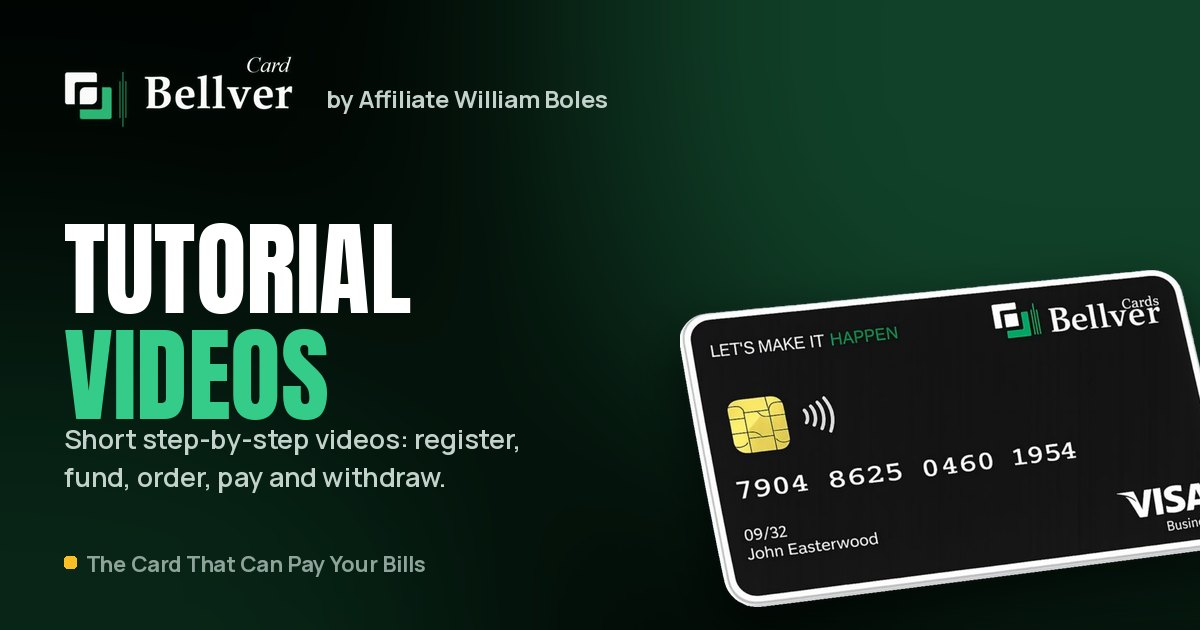
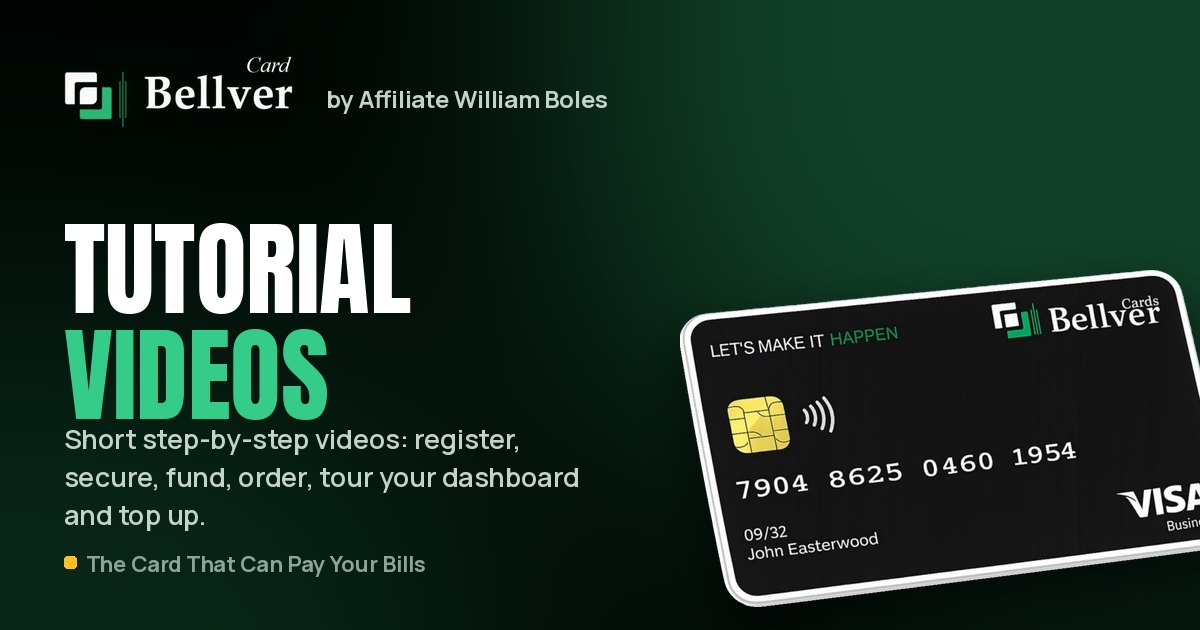
Give every Bellver page its own social preview image and refresh share caches
New previews for Explainer Videos, Become a Partner, Payback Calculator and Rewards Calculator; Tutorial Videos text updated; og:image now carries a version tag, secure_url and type on every page (MTG and team).

Claude-Session: https://claude.ai/code/session_01EfSLD4XKBMX3jpFRqeX61H

Changed region(s): [[0.0617, 0.7238, 0.4933, 0.8444]]

diff --git a/bellvercards/william/tutorials/index.html b/bellvercards/william/tutorials/index.html
@@ -16,13 +16,15 @@
 <meta property="og:title" content="Bellver Card Tutorial Videos: Register, Secure, Fund, Order, Your Dashboard and Top Up | William Boles">
 <meta property="og:description" content="Step-by-step Bellver Card tutorials: register, secure your account with 2FA, back up your Web3 wallet private key, fund your wallet and order your card, a full tour of your dashboard, then top up your card with the 3.9% fee explained. Click by click, with transcripts.">
 <meta property="og:url" content="https://www.musathegiant.com/bellvercards/william/tutorials/">
-<meta property="og:image" content="https://www.musathegiant.com/bellvercards/william/og/og-bellver-tutorials.jpg">
+<meta property="og:image" content="https://www.musathegiant.com/bellvercards/william/og/og-bellver-tutorials.jpg?v=20261017">
+<meta property="og:image:secure_url" content="https://www.musathegiant.com/bellvercards/william/og/og-bellver-tutorials.jpg?v=20261017">
+<meta property="og:image:type" content="image/jpeg">
 <meta property="og:image:width" content="1200"><meta property="og:image:height" content="630">
 <meta property="og:image:alt" content="Bellver Card tutorial videos">
 <meta name="twitter:card" content="summary_large_image">
 <meta name="twitter:title" content="Bellver Card Tutorial Videos: Register, Secure, Fund, Order, Your Dashboard and Top Up | William Boles">
 <meta name="twitter:description" content="Step-by-step Bellver Card tutorials: register, secure your account with 2FA, back up your Web3 wallet private key, fund your wallet and order your card, a full tour of your dashboard, then top up your card with the 3.9% fee explained. Click by click, with transcripts.">
-<meta name="twitter:image" content="https://www.musathegiant.com/bellvercards/william/og/og-bellver-tutorials.jpg">
+<meta name="twitter:image" content="https://www.musathegiant.com/bellvercards/william/og/og-bellver-tutorials.jpg?v=20261017">
 <script type="application/ld+json">
 {
  "@context": "https://schema.org",
@@ -40,7 +42,7 @@
    "dateModified": "2026-10-09",
    "primaryImageOfPage": {
     "@type": "ImageObject",
-    "url": "https://www.musathegiant.com/bellvercards/william/og/og-bellver-tutorials.jpg"
+    "url": "https://www.musathegiant.com/bellvercards/william/og/og-bellver-tutorials.jpg?v=20261017"
    },
    "breadcrumb": {
     "@type": "BreadcrumbList",

diff --git a/cards/bellvercards/index.html b/cards/bellvercards/index.html
@@ -16,8 +16,8 @@
 <meta property="og:title" content="Bellver Card: The Crypto Card That Can Pay Your Bills | MTG">
 <meta property="og:description" content="Order the Bellver Card from $99. A crypto-funded card (Visa physical, Mastercard virtual) with limits up to $250,000 a day, your own private-key wallet and monthly rewards when your referrals use their cards.">
 <meta property="og:url" content="https://www.musathegiant.com/cards/bellvercards/">
-<meta property="og:image" content="https://www.musathegiant.com/cards/bellvercards/images/og/og-bellver-cards.jpg?v=20261009">
-<meta property="og:image:secure_url" content="https://www.musathegiant.com/cards/bellvercards/images/og/og-bellver-cards.jpg?v=20261009">
+<meta property="og:image" content="https://www.musathegiant.com/cards/bellvercards/images/og/og-bellver-cards.jpg?v=20261017">
+<meta property="og:image:secure_url" content="https://www.musathegiant.com/cards/bellvercards/images/og/og-bellver-cards.jpg?v=20261017">
 <meta property="og:image:type" content="image/jpeg">
 <meta property="og:image:width" content="1200"><meta property="og:image:height" content="630">
 <meta property="og:image:alt" content="Bellver Card, the card that can pay your bills">
@@ -25,7 +25,7 @@
 <meta name="twitter:card" content="summary_large_image">
 <meta name="twitter:title" content="Bellver Card: The Crypto Card That Can Pay Your Bills | MTG">
 <meta name="twitter:description" content="Order the Bellver Card from $99. A crypto-funded card (Visa physical, Mastercard virtual) with limits up to $250,000 a day, your own private-key wallet and monthly rewards when your referrals use their cards.">
-<meta name="twitter:image" content="https://www.musathegiant.com/cards/bellvercards/images/og/og-bellver-cards.jpg?v=20261009">
+<meta name="twitter:image" content="https://www.musathegiant.com/cards/bellvercards/images/og/og-bellver-cards.jpg?v=20261017">
 <script type="application/ld+json">
 {
  "@context": "https://schema.org",
@@ -46,7 +46,7 @@
    "dateModified": "2026-10-09",
    "primaryImageOfPage": {
     "@type": "ImageObject",
-    "url": "https://www.musathegiant.com/cards/bellvercards/images/og/og-bellver-cards.jpg?v=20261009"
+    "url": "https://www.musathegiant.com/cards/bellvercards/images/og/og-bellver-cards.jpg"
    },
    "breadcrumb": {
     "@type": "BreadcrumbList",

diff --git a/cards/bellvercards/partner/index.html b/cards/bellvercards/partner/index.html
@@ -16,14 +16,16 @@
 <meta property="og:title" content="Become a Bellver Card Partner: How to Share It and Earn | MTG">
 <meta property="og:description" content="How to share the Bellver Card and earn commissions: made for TikTok LIVE hosts and creators with a trusting audience, the $10 to $500 direct commissions, a first-week plan, honest sharing rules and a plain explanation of what partner means.">
 <meta property="og:url" content="https://www.musathegiant.com/cards/bellvercards/partner/">
-<meta property="og:image" content="https://www.musathegiant.com/cards/bellvercards/images/og/og-bellver-guide.jpg">
+<meta property="og:image" content="https://www.musathegiant.com/cards/bellvercards/images/og/og-bellver-partner.jpg?v=20261017">
+<meta property="og:image:secure_url" content="https://www.musathegiant.com/cards/bellvercards/images/og/og-bellver-partner.jpg?v=20261017">
+<meta property="og:image:type" content="image/jpeg">
 <meta property="og:image:width" content="1200"><meta property="og:image:height" content="630">
 <meta property="og:image:alt" content="Become a Bellver Card partner">
 <meta property="og:locale" content="en_ZA">
 <meta name="twitter:card" content="summary_large_image">
 <meta name="twitter:title" content="Become a Bellver Card Partner: How to Share It and Earn | MTG">
 <meta name="twitter:description" content="How to share the Bellver Card and earn commissions: made for TikTok LIVE hosts and creators with a trusting audience, the $10 to $500 direct commissions, a first-week plan, honest sharing rules and a plain explanation of what partner means.">
-<meta name="twitter:image" content="https://www.musathegiant.com/cards/bellvercards/images/og/og-bellver-guide.jpg">
+<meta name="twitter:image" content="https://www.musathegiant.com/cards/bellvercards/images/og/og-bellver-partner.jpg?v=20261017">
 <script type="application/ld+json">
 {
  "@context": "https://schema.org",
@@ -44,7 +46,7 @@
    "dateModified": "2026-10-09",
    "primaryImageOfPage": {
     "@type": "ImageObject",
-    "url": "https://www.musathegiant.com/cards/bellvercards/images/og/og-bellver-guide.jpg"
+    "url": "https://www.musathegiant.com/cards/bellvercards/images/og/og-bellver-partner.jpg"
    },
    "breadcrumb": {
     "@type": "BreadcrumbList",

diff --git a/cards/bellvercards/rewards-calculator/index.html b/cards/bellvercards/rewards-calculator/index.html
@@ -16,14 +16,16 @@
 <meta property="og:title" content="Bellver Card Rewards Calculator: Estimate Your 0.1% Monthly Rewards | MTG">
 <meta property="og:description" content="Free Bellver Card rewards calculator: choose your rank, cardholders in your paid levels and their average top-up to see how the 0.1% monthly reward works. Illustration only, not a promise.">
 <meta property="og:url" content="https://www.musathegiant.com/cards/bellvercards/rewards-calculator/">
-<meta property="og:image" content="https://www.musathegiant.com/cards/bellvercards/images/og/og-bellver-rewards.jpg">
+<meta property="og:image" content="https://www.musathegiant.com/cards/bellvercards/images/og/og-bellver-rewards-calculator.jpg?v=20261017">
+<meta property="og:image:secure_url" content="https://www.musathegiant.com/cards/bellvercards/images/og/og-bellver-rewards-calculator.jpg?v=20261017">
+<meta property="og:image:type" content="image/jpeg">
 <meta property="og:image:width" content="1200"><meta property="og:image:height" content="630">
 <meta property="og:image:alt" content="Bellver Card rewards calculator">
 <meta property="og:locale" content="en_ZA">
 <meta name="twitter:card" content="summary_large_image">
 <meta name="twitter:title" content="Bellver Card Rewards Calculator: Estimate Your 0.1% Monthly Rewards | MTG">
 <meta name="twitter:description" content="Free Bellver Card rewards calculator: choose your rank, cardholders in your paid levels and their average top-up to see how the 0.1% monthly reward works. Illustration only, not a promise.">
-<meta name="twitter:image" content="https://www.musathegiant.com/cards/bellvercards/images/og/og-bellver-rewards.jpg">
+<meta name="twitter:image" content="https://www.musathegiant.com/cards/bellvercards/images/og/og-bellver-rewards-calculator.jpg?v=20261017">
 <script type="application/ld+json">
 {
  "@context": "https://schema.org",
@@ -44,7 +46,7 @@
    "dateModified": "2026-10-09",
    "primaryImageOfPage": {
     "@type": "ImageObject",
-    "url": "https://www.musathegiant.com/cards/bellvercards/images/og/og-bellver-rewards.jpg"
+    "url": "https://www.musathegiant.com/cards/bellvercards/images/og/og-bellver-rewards-calculator.jpg"
    },
    "breadcrumb": {
     "@type": "BreadcrumbList",

diff --git a/cards/bellvercards/explainers/index.html b/cards/bellvercards/explainers/index.html
@@ -16,14 +16,16 @@
 <meta property="og:title" content="Bellver Card Explainer Videos: Where Your Money Sits, Which Card to Choose and the 2x2 Matrix | MTG">
 <meta property="og:description" content="Short explainer videos by MTG: where your Bellver money really sits, which Bellver card is right for you, and the 2x2 matrix rewards plan, with key moments and full transcripts.">
 <meta property="og:url" content="https://www.musathegiant.com/cards/bellvercards/explainers/">
-<meta property="og:image" content="https://www.musathegiant.com/cards/bellvercards/images/og/og-bellver-videos.jpg">
+<meta property="og:image" content="https://www.musathegiant.com/cards/bellvercards/images/og/og-bellver-explainers.jpg?v=20261017">
+<meta property="og:image:secure_url" content="https://www.musathegiant.com/cards/bellvercards/images/og/og-bellver-explainers.jpg?v=20261017">
+<meta property="og:image:type" content="image/jpeg">
 <meta property="og:image:width" content="1200"><meta property="og:image:height" content="630">
 <meta property="og:image:alt" content="Bellver Card explainer videos">
 <meta property="og:locale" content="en_ZA">
 <meta name="twitter:card" content="summary_large_image">
 <meta name="twitter:title" content="Bellver Card Explainer Videos: Where Your Money Sits, Which Card to Choose and the 2x2 Matrix | MTG">
 <meta name="twitter:description" content="Short explainer videos by MTG: where your Bellver money really sits, which Bellver card is right for you, and the 2x2 matrix rewards plan, with key moments and full transcripts.">
-<meta name="twitter:image" content="https://www.musathegiant.com/cards/bellvercards/images/og/og-bellver-videos.jpg">
+<meta name="twitter:image" content="https://www.musathegiant.com/cards/bellvercards/images/og/og-bellver-explainers.jpg?v=20261017">
 <script type="application/ld+json">
 {
  "@context": "https://schema.org",
@@ -44,7 +46,7 @@
    "dateModified": "2026-10-09",
    "primaryImageOfPage": {
     "@type": "ImageObject",
-    "url": "https://www.musathegiant.com/cards/bellvercards/images/og/og-bellver-videos.jpg"
+    "url": "https://www.musathegiant.com/cards/bellvercards/images/og/og-bellver-explainers.jpg"
    },
    "breadcrumb": {
     "@type": "BreadcrumbList",

diff --git a/bellvercards/william/partner/index.html b/bellvercards/william/partner/index.html
@@ -16,13 +16,15 @@
 <meta property="og:title" content="Become a Bellver Card Partner: How to Share It and Earn | William Boles">
 <meta property="og:description" content="How to share the Bellver Card and earn commissions: made for TikTok LIVE hosts and creators with a trusting audience, the $10 to $500 direct commissions, a first-week plan, honest sharing rules and a plain explanation of what partner means.">
 <meta property="og:url" content="https://www.musathegiant.com/bellvercards/william/partner/">
-<meta property="og:image" content="https://www.musathegiant.com/bellvercards/william/og/og-bellver-guide.jpg">
+<meta property="og:image" content="https://www.musathegiant.com/bellvercards/william/og/og-bellver-partner.jpg?v=20261017">
+<meta property="og:image:secure_url" content="https://www.musathegiant.com/bellvercards/william/og/og-bellver-partner.jpg?v=20261017">
+<meta property="og:image:type" content="image/jpeg">
 <meta property="og:image:width" content="1200"><meta property="og:image:height" content="630">
 <meta property="og:image:alt" content="Become a Bellver Card partner">
 <meta name="twitter:card" content="summary_large_image">
 <meta name="twitter:title" content="Become a Bellver Card Partner: How to Share It and Earn | William Boles">
 <meta name="twitter:description" content="How to share the Bellver Card and earn commissions: made for TikTok LIVE hosts and creators with a trusting audience, the $10 to $500 direct commissions, a first-week plan, honest sharing rules and a plain explanation of what partner means.">
-<meta name="twitter:image" content="https://www.musathegiant.com/bellvercards/william/og/og-bellver-guide.jpg">
+<meta name="twitter:image" content="https://www.musathegiant.com/bellvercards/william/og/og-bellver-partner.jpg?v=20261017">
 <script type="application/ld+json">
 {
  "@context": "https://schema.org",
@@ -40,7 +42,7 @@
    "dateModified": "2026-10-09",
    "primaryImageOfPage": {
     "@type": "ImageObject",
-    "url": "https://www.musathegiant.com/bellvercards/william/og/og-bellver-guide.jpg"
+    "url": "https://www.musathegiant.com/bellvercards/william/og/og-bellver-partner.jpg?v=20261017"
    },
    "breadcrumb": {
     "@type": "BreadcrumbList",

diff --git a/bellvercards/william/matrix/index.html b/bellvercards/william/matrix/index.html
@@ -16,13 +16,15 @@
 <meta property="og:title" content="Bellver 2x2 Matrix Explained Simply: Spillover, Levels, 0.1% Rewards | William Boles">
 <meta property="og:description" content="The Bellver Card 2x2 matrix in plain words: two seats under everyone, reading-order filling, spillover, doubling levels, 0.1% rewards, star ranks and the $100 rule. With a playable diagram, calculator, quiz and free PDF.">
 <meta property="og:url" content="https://www.musathegiant.com/bellvercards/william/matrix/">
-<meta property="og:image" content="https://www.musathegiant.com/bellvercards/william/og/og-bellver-matrix.jpg">
+<meta property="og:image" content="https://www.musathegiant.com/bellvercards/william/og/og-bellver-matrix.jpg?v=20261017">
+<meta property="og:image:secure_url" content="https://www.musathegiant.com/bellvercards/william/og/og-bellver-matrix.jpg?v=20261017">
+<meta property="og:image:type" content="image/jpeg">
 <meta property="og:image:width" content="1200"><meta property="og:image:height" content="630">
 <meta property="og:image:alt" content="The Bellver 2x2 matrix explained simply">
 <meta name="twitter:card" content="summary_large_image">
 <meta name="twitter:title" content="Bellver 2x2 Matrix Explained Simply: Spillover, Levels, 0.1% Rewards | William Boles">
 <meta name="twitter:description" content="The Bellver Card 2x2 matrix in plain words: two seats under everyone, reading-order filling, spillover, doubling levels, 0.1% rewards, star ranks and the $100 rule. With a playable diagram, calculator, quiz and free PDF.">
-<meta name="twitter:image" content="https://www.musathegiant.com/bellvercards/william/og/og-bellver-matrix.jpg">
+<meta name="twitter:image" content="https://www.musathegiant.com/bellvercards/william/og/og-bellver-matrix.jpg?v=20261017">
 <script type="application/ld+json">
 {
  "@context": "https://schema.org",
@@ -40,7 +42,7 @@
    "dateModified": "2026-10-09",
    "primaryImageOfPage": {
     "@type": "ImageObject",
-    "url": "https://www.musathegiant.com/bellvercards/william/og/og-bellver-matrix.jpg"
+    "url": "https://www.musathegiant.com/bellvercards/william/og/og-bellver-matrix.jpg?v=20261017"
    },
    "breadcrumb": {
     "@type": "BreadcrumbList",

diff --git a/bellvercards/william/rewards-calculator/index.html b/bellvercards/william/rewards-calculator/index.html
@@ -16,13 +16,15 @@
 <meta property="og:title" content="Bellver Card Rewards Calculator: Estimate Your 0.1% Monthly Rewards | William Boles">
 <meta property="og:description" content="Free Bellver Card rewards calculator: choose your rank, cardholders in your paid levels and their average top-up to see how the 0.1% monthly reward works. Illustration only, not a promise.">
 <meta property="og:url" content="https://www.musathegiant.com/bellvercards/william/rewards-calculator/">
-<meta property="og:image" content="https://www.musathegiant.com/bellvercards/william/og/og-bellver-rewards.jpg">
+<meta property="og:image" content="https://www.musathegiant.com/bellvercards/william/og/og-bellver-rewards-calculator.jpg?v=20261017">
+<meta property="og:image:secure_url" content="https://www.musathegiant.com/bellvercards/william/og/og-bellver-rewards-calculator.jpg?v=20261017">
+<meta property="og:image:type" content="image/jpeg">
 <meta property="og:image:width" content="1200"><meta property="og:image:height" content="630">
 <meta property="og:image:alt" content="Bellver Card rewards calculator">
 <meta name="twitter:card" content="summary_large_image">
 <meta name="twitter:title" content="Bellver Card Rewards Calculator: Estimate Your 0.1% Monthly Rewards | William Boles">
 <meta name="twitter:description" content="Free Bellver Card rewards calculator: choose your rank, cardholders in your paid levels and their average top-up to see how the 0.1% monthly reward works. Illustration only, not a promise.">
-<meta name="twitter:image" content="https://www.musathegiant.com/bellvercards/william/og/og-bellver-rewards.jpg">
+<meta name="twitter:image" content="https://www.musathegiant.com/bellvercards/william/og/og-bellver-rewards-calculator.jpg?v=20261017">
 <script type="application/ld+json">
 {
  "@context": "https://schema.org",
@@ -40,7 +42,7 @@
    "dateModified": "2026-10-09",
    "primaryImageOfPage": {
     "@type": "ImageObject",
-    "url": "https://www.musathegiant.com/bellvercards/william/og/og-bellver-rewards.jpg"
+    "url": "https://www.musathegiant.com/bellvercards/william/og/og-bellver-rewards-calculator.jpg?v=20261017"
    },
    "breadcrumb": {
     "@type": "BreadcrumbList",

diff --git a/bellvercards/william/explainers/index.html b/bellvercards/william/explainers/index.html
@@ -16,13 +16,15 @@
 <meta property="og:title" content="Bellver Card Explainer Videos: Where Your Money Sits, Which Card to Choose and the 2x2 Matrix | William Boles">
 <meta property="og:description" content="Short explainer videos by MTG: where your Bellver money really sits, which Bellver card is right for you, and the 2x2 matrix rewards plan, with key moments and full transcripts.">
 <meta property="og:url" content="https://www.musathegiant.com/bellvercards/william/explainers/">
-<meta property="og:image" content="https://www.musathegiant.com/bellvercards/william/og/og-bellver-videos.jpg">
+<meta property="og:image" content="https://www.musathegiant.com/bellvercards/william/og/og-bellver-explainers.jpg?v=20261017">
+<meta property="og:image:secure_url" content="https://www.musathegiant.com/bellvercards/william/og/og-bellver-explainers.jpg?v=20261017">
+<meta property="og:image:type" content="image/jpeg">
 <meta property="og:image:width" content="1200"><meta property="og:image:height" content="630">
 <meta property="og:image:alt" content="Bellver Card explainer videos">
 <meta name="twitter:card" content="summary_large_image">
 <meta name="twitter:title" content="Bellver Card Explainer Videos: Where Your Money Sits, Which Card to Choose and the 2x2 Matrix | William Boles">
 <meta name="twitter:description" content="Short explainer videos by MTG: where your Bellver money really sits, which Bellver card is right for you, and the 2x2 matrix rewards plan, with key moments and full transcripts.">
-<meta name="twitter:image" content="https://www.musathegiant.com/bellvercards/william/og/og-bellver-videos.jpg">
+<meta name="twitter:image" content="https://www.musathegiant.com/bellvercards/william/og/og-bellver-explainers.jpg?v=20261017">
 <script type="application/ld+json">
 {
  "@context": "https://schema.org",
@@ -40,7 +42,7 @@
    "dateModified": "2026-10-09",
    "primaryImageOfPage": {
     "@type": "ImageObject",
-    "url": "https://www.musathegiant.com/bellvercards/william/og/og-bellver-videos.jpg"
+    "url": "https://www.musathegiant.com/bellvercards/william/og/og-bellver-explainers.jpg?v=20261017"
    },
    "breadcrumb": {
     "@type": "BreadcrumbList",

diff --git a/bellvercards/william/index.html b/bellvercards/william/index.html
@@ -16,13 +16,15 @@
 <meta property="og:title" content="Bellver Card: The Crypto Card That Can Pay Your Bills | William Boles">
 <meta property="og:description" content="Order the Bellver Card from $99. A crypto-funded card (Visa physical, Mastercard virtual) with limits up to $250,000 a day, your own private-key wallet and monthly rewards when your referrals use their cards.">
 <meta property="og:url" content="https://www.musathegiant.com/bellvercards/william/">
-<meta property="og:image" content="https://www.musathegiant.com/bellvercards/william/og/og-bellver-cards.jpg">
+<meta property="og:image" content="https://www.musathegiant.com/bellvercards/william/og/og-bellver-cards.jpg?v=20261017">
+<meta property="og:image:secure_url" content="https://www.musathegiant.com/bellvercards/william/og/og-bellver-cards.jpg?v=20261017">
+<meta property="og:image:type" content="image/jpeg">
 <meta property="og:image:width" content="1200"><meta property="og:image:height" content="630">
 <meta property="og:image:alt" content="Bellver Card, the card that can pay your bills">
 <meta name="twitter:card" content="summary_large_image">
 <meta name="twitter:title" content="Bellver Card: The Crypto Card That Can Pay Your Bills | William Boles">
 <meta name="twitter:description" content="Order the Bellver Card from $99. A crypto-funded card (Visa physical, Mastercard virtual) with limits up to $250,000 a day, your own private-key wallet and monthly rewards when your referrals use their cards.">
-<meta name="twitter:image" content="https://www.musathegiant.com/bellvercards/william/og/og-bellver-cards.jpg">
+<meta name="twitter:image" content="https://www.musathegiant.com/bellvercards/william/og/og-bellver-cards.jpg?v=20261017">
 <script type="application/ld+json">
 {
  "@context": "https://schema.org",
@@ -40,7 +42,7 @@
    "dateModified": "2026-10-09",
    "primaryImageOfPage": {
     "@type": "ImageObject",
-    "url": "https://www.musathegiant.com/bellvercards/william/og/og-bellver-cards.jpg"
+    "url": "https://www.musathegiant.com/bellvercards/william/og/og-bellver-cards.jpg?v=20261017"
    },
    "breadcrumb": {
     "@type": "BreadcrumbList",

diff --git a/bellvercards/william/get-started/index.html b/bellvercards/william/get-started/index.html
@@ -16,13 +16,15 @@
 <meta property="og:title" content="How to Order a Bellver Card: Step-by-Step Setup Guide | William Boles">
 <meta property="og:description" content="Order your Bellver Card in seven steps: register, secure your account, fund your Fireblocks wallet with USDT or USDC, choose your card, load it, share your link and withdraw.">
 <meta property="og:url" content="https://www.musathegiant.com/bellvercards/william/get-started/">
-<meta property="og:image" content="https://www.musathegiant.com/bellvercards/william/og/og-bellver-get-started.jpg">
+<meta property="og:image" content="https://www.musathegiant.com/bellvercards/william/og/og-bellver-get-started.jpg?v=20261017">
+<meta property="og:image:secure_url" content="https://www.musathegiant.com/bellvercards/william/og/og-bellver-get-started.jpg?v=20261017">
+<meta property="og:image:type" content="image/jpeg">
 <meta property="og:image:width" content="1200"><meta property="og:image:height" content="630">
 <meta property="og:image:alt" content="How to order a Bellver Card step by step">
 <meta name="twitter:card" content="summary_large_image">
 <meta name="twitter:title" content="How to Order a Bellver Card: Step-by-Step Setup Guide | William Boles">
 <meta name="twitter:description" content="Order your Bellver Card in seven steps: register, secure your account, fund your Fireblocks wallet with USDT or USDC, choose your card, load it, share your link and withdraw.">
-<meta name="twitter:image" content="https://www.musathegiant.com/bellvercards/william/og/og-bellver-get-started.jpg">
+<meta name="twitter:image" content="https://www.musathegiant.com/bellvercards/william/og/og-bellver-get-started.jpg?v=20261017">
 <script type="application/ld+json">
 {
  "@context": "https://schema.org",
@@ -40,7 +42,7 @@
    "dateModified": "2026-10-09",
    "primaryImageOfPage": {
     "@type": "ImageObject",
-    "url": "https://www.musathegiant.com/bellvercards/william/og/og-bellver-get-started.jpg"
+    "url": "https://www.musathegiant.com/bellvercards/william/og/og-bellver-get-started.jpg?v=20261017"
    },
    "breadcrumb": {
     "@type": "BreadcrumbList",

diff --git a/cards/bellvercards/payback-calculator/index.html b/cards/bellvercards/payback-calculator/index.html
@@ -16,14 +16,16 @@
 <meta property="og:title" content="Bellver Card Payback Calculator: Can Referrals Cover Your Card? | MTG">
 <meta property="og:description" content="Free Bellver Card payback calculator: pick your card, your referrals' card and how many people order through your link to see when your card pays for itself.">
 <meta property="og:url" content="https://www.musathegiant.com/cards/bellvercards/payback-calculator/">
-<meta property="og:image" content="https://www.musathegiant.com/cards/bellvercards/images/og/og-bellver-prices.jpg">
+<meta property="og:image" content="https://www.musathegiant.com/cards/bellvercards/images/og/og-bellver-payback.jpg?v=20261017">
+<meta property="og:image:secure_url" content="https://www.musathegiant.com/cards/bellvercards/images/og/og-bellver-payback.jpg?v=20261017">
+<meta property="og:image:type" content="image/jpeg">
 <meta property="og:image:width" content="1200"><meta property="og:image:height" content="630">
 <meta property="og:image:alt" content="Bellver Card payback calculator">
 <meta property="og:locale" content="en_ZA">
 <meta name="twitter:card" content="summary_large_image">
 <meta name="twitter:title" content="Bellver Card Payback Calculator: Can Referrals Cover Your Card? | MTG">
 <meta name="twitter:description" content="Free Bellver Card payback calculator: pick your card, your referrals' card and how many people order through your link to see when your card pays for itself.">
-<meta name="twitter:image" content="https://www.musathegiant.com/cards/bellvercards/images/og/og-bellver-prices.jpg">
+<meta name="twitter:image" content="https://www.musathegiant.com/cards/bellvercards/images/og/og-bellver-payback.jpg?v=20261017">
 <script type="application/ld+json">
 {
  "@context": "https://schema.org",
@@ -44,7 +46,7 @@
    "dateModified": "2026-10-09",
    "primaryImageOfPage": {
     "@type": "ImageObject",
-    "url": "https://www.musathegiant.com/cards/bellvercards/images/og/og-bellver-prices.jpg"
+    "url": "https://www.musathegiant.com/cards/bellvercards/images/og/og-bellver-payback.jpg"
    },
    "breadcrumb": {
     "@type": "BreadcrumbList",
